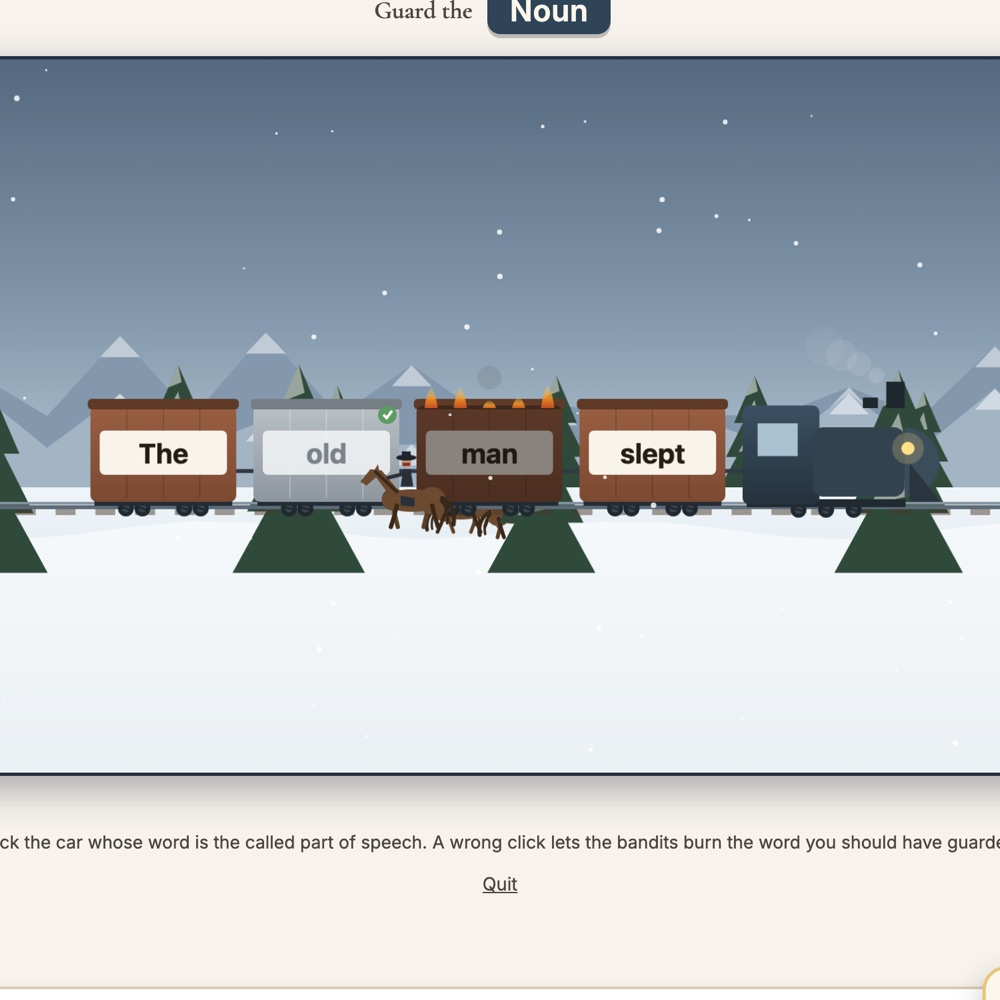
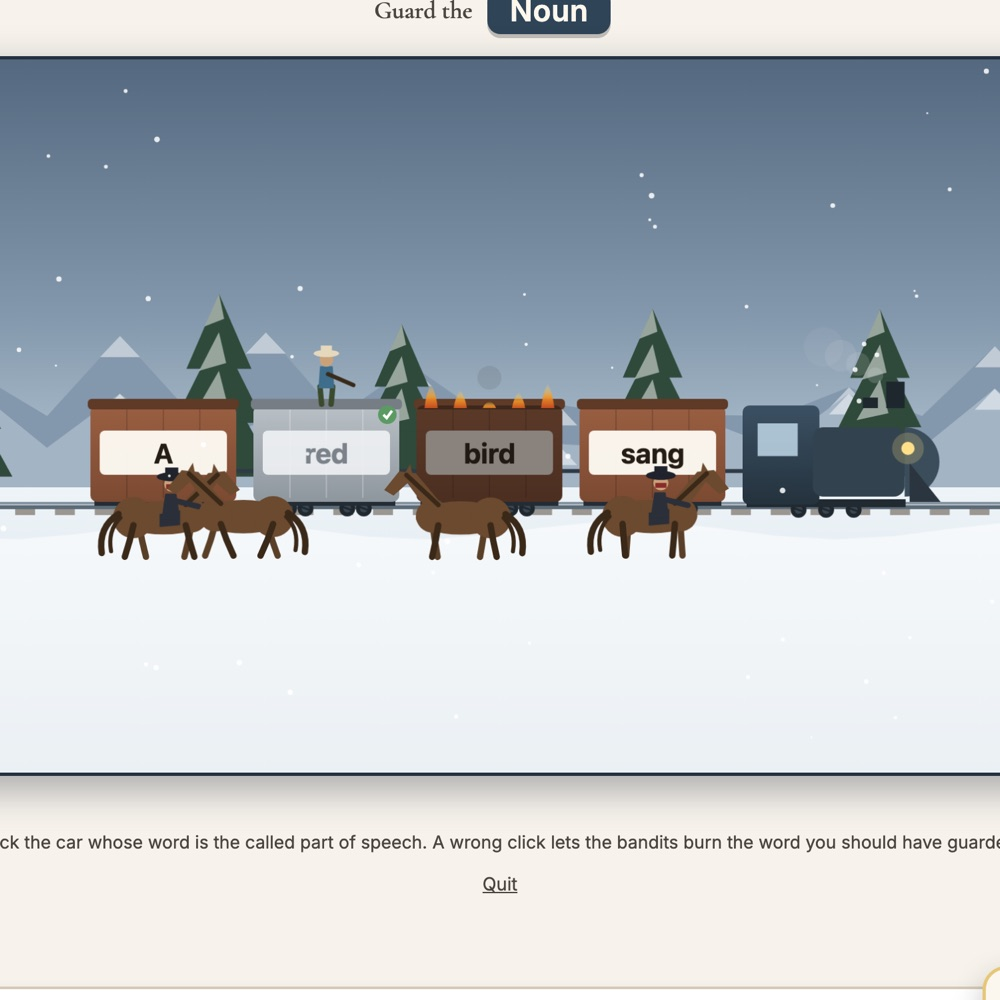
Grammar Express: 1-to-1 bandits, good-guy defenders, foreground riders, bigger backdrop trees
- One bandit per car now (matches the word count), each bound to its car.
- Correct answer: a good guy climbs onto that car, shoots its bandit down (rider
  falls off, the riderless horse bolts away), and stands watch on the car.
- Wrong answer: the car's OWN on-screen bandit torches it from horseback (no more
  off-screen ride-in/out, no dismount).
- Bandits moved into the foreground (drawn in front of the train) and lowered so
  they clear the word plates; horses + riders scaled up ~1.5x.
- Removed the foreground tree band that overlapped the train; enlarged the single
  background treeline so it reads better behind the train.
Logic unchanged (13/13 assertions pass); tile regenerated.

diff --git a/games/grammar-express/index.html b/games/grammar-express/index.html
@@ -310,7 +310,7 @@ let order = [], orderIdx = 0, curPOS = null, remaining = 0;
 let lives = START_LIVES, score = 0, streak = 0, bestStreak = 0;
 let carsSaved = 0, clicksRight = 0, clicksTotal = 0;
 let doneClock = 0, worldSpeed = 7;   // px/sec - a slow, peaceful crawl
-let scroll = 0, snow = [], bandits = [], raids = [];
+let scroll = 0, snow = [], bandits = [];   // one bandit per car (1-to-1)
 let recent = { idx:-1, kind:null, t:0 };
 let layoutMeta = null;
 
@@ -351,7 +351,6 @@ function layoutTrain(){
 function startGame(){
   trainCount = 0; levelIdx = 0; lastSpec = '';
   lives = START_LIVES; score = 0; streak = 0; bestStreak = 0; carsSaved = 0; clicksRight = 0; clicksTotal = 0;
-  raids = [];
   rail.set(0);
   startOverlay.classList.add('hidden');
   overOverlay.classList.add('hidden');
@@ -367,12 +366,10 @@ function nextTrain(){
   let spec = choice(LEVELS[levelIdx]);
   if (LEVELS[levelIdx].length > 1){ let guard=0; while (spec===lastSpec && guard++<8) spec = choice(LEVELS[levelIdx]); }
   lastSpec = spec;
-  train = S(spec).map(c => ({ w:c.w, pos:c.pos, secured:false, burned:false, fire:0 }));
+  train = S(spec).map(c => ({ w:c.w, pos:c.pos, secured:false, burned:false, fire:0, hero:null }));
   layoutTrain();
-  // ambient bandits keeping pace in the mid-ground
-  bandits = [];
-  for (let i=0;i<3;i++) bandits.push({ x:rand(W*0.1,W*0.9), lane:i, phase:rand(0,6.28), sp:rand(0.9,1.15) });
-  raids = [];
+  // one bandit per car, each menacing the car it belongs to
+  bandits = train.map((c,i) => ({ carIdx:i, phase:rand(0,6.28), spd:rand(0.95,1.15), state:'ride', t:0, fleeX:0 }));
   const present = [];
   train.forEach(c => { if (present.indexOf(c.pos)<0) present.push(c.pos); });
   order = shuffle(present); orderIdx = 0;
@@ -409,6 +406,8 @@ function guard(idx){
     streak++; if (streak>bestStreak) bestStreak = streak;
     score += Math.round(20 * Math.min(3, 1 + streak*0.15));
     recent = { idx, kind:'good', t:0 };
+    c.hero = { t:0 };                                   // a good guy climbs aboard and...
+    if (bandits[idx]){ bandits[idx].state = 'defeated'; bandits[idx].t = 0; }   // ...shoots this car's bandit down
     feedbackEl.textContent = '';
     if (window.HSGSound) HSGSound.correct();
     if (window.HSGfx && HSGfx.milestone(streak) && window.HSGSound) HSGSound.streak(streak);
@@ -427,7 +426,8 @@ function wrongClick(){
   streak = 0;
   const victim = targets[0], vIdx = train.indexOf(victim);
   victim.burned = true;                     // logic: it's lost now...
-  spawnRaid(vIdx);                          // ...visual fire ramps when the bandit reaches it
+  // this car's own bandit torches it from horseback (no ride-in from off-screen)
+  if (bandits[vIdx]){ bandits[vIdx].state = 'torch'; bandits[vIdx].t = 0; } else victim.fire = 1;
   if (!(window.HSGGod && HSGGod.on)) lives--;
   recent = { idx:vIdx, kind:'burn', t:0 };
   if (window.HSGSound) HSGSound.wrong();
@@ -438,11 +438,6 @@ function wrongClick(){
   if (lives <= 0){ setTimeout(gameOver, 650); return; }
   remaining = train.filter(c => c.pos===curPOS && !c.secured && !c.burned).length;
   if (remaining <= 0) setTimeout(advancePrompt, 500); else updatePrompt();
-}
-
-function spawnRaid(carIdx){
-  const b = bandits.length ? bandits[randi(0,bandits.length-1)] : { x:-60 };
-  raids.push({ carIdx, t:0, fromX: (b.x!==undefined ? b.x : -60) });
 }
 
 // ---------- HUD ----------
@@ -548,8 +543,8 @@ function horseLeg(hx, hy, swing, len, col){
   ctx.strokeStyle = col; ctx.lineWidth = 3.4; ctx.lineCap = 'round';
   ctx.beginPath(); ctx.moveTo(hx, hy); ctx.lineTo(hx+swing*0.45, hy+len*0.5); ctx.lineTo(hx+swing, hy+len); ctx.stroke();
 }
-function drawHorseRider(x, groundY, s, t, rise, torch, dir){
-  dir = dir || 1;
+function drawHorseRider(x, groundY, s, t, torch, dir, fall){
+  dir = dir || 1; fall = fall || 0;
   ctx.save(); ctx.translate(x, groundY-2); ctx.scale(s*dir, s);
   const t2 = t*14;                                   // legs twice as fast
   const fS = Math.sin(t2)*7, bS = Math.sin(t2+Math.PI)*7;
@@ -569,50 +564,77 @@ function drawHorseRider(x, groundY, s, t, rise, torch, dir){
   ctx.strokeStyle = dark; ctx.lineWidth = 2.5; ctx.beginPath(); ctx.moveTo(12,-27); ctx.lineTo(29,-43); ctx.stroke();   // mane
   ctx.lineWidth = 3.4; ctx.beginPath(); ctx.moveTo(-24,-22); ctx.quadraticCurveTo(-35,-15,-33,-1); ctx.stroke();       // tail
   ctx.lineWidth = 2.2; ctx.beginPath(); ctx.moveTo(-23,-20); ctx.quadraticCurveTo(-30,-13,-28,-2); ctx.stroke();
-  // rider astride
-  const ry = -30 - rise*16;
-  ctx.fillStyle = '#2b2f3a';
-  ctx.beginPath(); ctx.moveTo(-2,-22); ctx.lineTo(9,-24); ctx.lineTo(9,-16); ctx.lineTo(-2,-15); ctx.closePath(); ctx.fill();   // thigh over saddle
-  ctx.beginPath(); ctx.moveTo(-1,ry+11); ctx.lineTo(9,ry+11); ctx.lineTo(7,ry-3); ctx.lineTo(1,ry-3); ctx.closePath(); ctx.fill(); // torso
-  ctx.fillStyle = '#caa27a'; ctx.beginPath(); ctx.arc(4.5,ry-8,4,0,7); ctx.fill();     // face
-  ctx.fillStyle = '#8a2b2b'; ctx.fillRect(1.5,ry-8,6,2.6);                             // bandana
-  ctx.fillStyle = '#20222c'; ctx.beginPath(); ctx.ellipse(4.5,ry-12,8,2.4,0,0,7); ctx.fill(); ctx.fillRect(1,ry-17,7,5); // hat
-  ctx.strokeStyle = '#2b2f3a'; ctx.lineWidth = 3; ctx.lineCap = 'round';
-  ctx.beginPath(); ctx.moveTo(7,ry+1); ctx.lineTo(19,ry+4); ctx.stroke();              // rein arm to the neck
-  if (torch > 0){
-    ctx.strokeStyle = '#2b2f3a'; ctx.beginPath(); ctx.moveTo(6,ry-1); ctx.lineTo(15,ry-15); ctx.stroke();
-    ctx.strokeStyle = '#6b4a2a'; ctx.lineWidth = 2.5; ctx.beginPath(); ctx.moveTo(15,ry-15); ctx.lineTo(19,ry-21); ctx.stroke();
-    const fl = 5 + 3*Math.sin(t*22);
-    const fg = ctx.createRadialGradient(19,ry-25,0,19,ry-25,fl+4);
-    fg.addColorStop(0,'rgba(255,240,150,0.95)'); fg.addColorStop(0.5,'rgba(240,150,40,0.9)'); fg.addColorStop(1,'rgba(200,60,30,0)');
-    ctx.fillStyle = fg; ctx.beginPath(); ctx.arc(19,ry-25,fl+4,0,7); ctx.fill();
+  // rider astride (drops off when shot down: fall 0 = seated, 1 = gone)
+  if (fall < 1){
+    ctx.save(); ctx.globalAlpha = 1 - fall*0.6; ctx.translate(0, fall*18); ctx.rotate(fall*0.8);
+    const ry = -30;
+    ctx.fillStyle = '#2b2f3a';
+    ctx.beginPath(); ctx.moveTo(-2,-22); ctx.lineTo(9,-24); ctx.lineTo(9,-16); ctx.lineTo(-2,-15); ctx.closePath(); ctx.fill();   // thigh over saddle
+    ctx.beginPath(); ctx.moveTo(-1,ry+11); ctx.lineTo(9,ry+11); ctx.lineTo(7,ry-3); ctx.lineTo(1,ry-3); ctx.closePath(); ctx.fill(); // torso
+    ctx.fillStyle = '#caa27a'; ctx.beginPath(); ctx.arc(4.5,ry-8,4,0,7); ctx.fill();     // face
+    ctx.fillStyle = '#8a2b2b'; ctx.fillRect(1.5,ry-8,6,2.6);                             // bandana
+    ctx.fillStyle = '#20222c'; ctx.beginPath(); ctx.ellipse(4.5,ry-12,8,2.4,0,0,7); ctx.fill(); ctx.fillRect(1,ry-17,7,5); // hat
+    ctx.strokeStyle = '#2b2f3a'; ctx.lineWidth = 3; ctx.lineCap = 'round';
+    ctx.beginPath(); ctx.moveTo(7,ry+1); ctx.lineTo(19,ry+4); ctx.stroke();              // rein arm to the neck
+    if (torch > 0){
+      ctx.strokeStyle = '#2b2f3a'; ctx.beginPath(); ctx.moveTo(6,ry-1); ctx.lineTo(15,ry-15); ctx.stroke();
+      ctx.strokeStyle = '#6b4a2a'; ctx.lineWidth = 2.5; ctx.beginPath(); ctx.moveTo(15,ry-15); ctx.lineTo(19,ry-21); ctx.stroke();
+      const fl = 5 + 3*Math.sin(t*22);
+      const fg = ctx.createRadialGradient(19,ry-25,0,19,ry-25,fl+4);
+      fg.addColorStop(0,'rgba(255,240,150,0.95)'); fg.addColorStop(0.5,'rgba(240,150,40,0.9)'); fg.addColorStop(1,'rgba(200,60,30,0)');
+      ctx.fillStyle = fg; ctx.beginPath(); ctx.arc(19,ry-25,fl+4,0,7); ctx.fill();
+    }
+    ctx.restore();
   }
   // near legs (darker, in front of body) - opposite phase for a gallop
   horseLeg(12, HIP, bS, LEN, dark);
   horseLeg(-16, HIP, fS, LEN, dark);
   ctx.restore();
 }
-function drawAmbientBandits(t){
-  const gy = layoutMeta ? layoutMeta.baseY : H*0.62;
+// bandits ride in the FOREGROUND (in front of the train), one per car, low enough
+// to clear the word plates. Each is bound to its car and reacts to how it's resolved.
+function banditScale(){ return (layoutMeta ? layoutMeta.carH/70 : 1) * 1.35; }   // ~1.5x the old size
+function drawBandits(t){
+  if (!layoutMeta) return;
+  const s = banditScale();
+  const gy = layoutMeta.baseY + layoutMeta.carH*0.5 + 6;   // low, in front of the wheels
   for (const b of bandits){
-    b.x += Math.sin(t*0.6 + b.phase)*0.15;          // slight drift, pacing the train
-    drawHorseRider(b.x, gy + 20 + b.lane*4, 0.72 + b.lane*0.06, t*b.sp + b.phase, 0, 0, 1);
-  }
-}
-function drawRaids(t){
-  const gy = layoutMeta ? layoutMeta.baseY : H*0.62;
-  for (const r of raids){
-    const car = train[r.carIdx]; if (!car) continue;
+    if (b.state === 'gone') continue;
+    const car = train[b.carIdx]; if (!car) continue;
     const cx = car.x + car.cw/2;
-    // phases: ride-in (0-0.9) | board (0.9-1.25) | torch (1.25-1.9) | ride-out (1.9-2.8)
-    let x, rise=0, torch=0, dir=1, sc=0.95;
-    if (r.t < 0.9){ x = lerp(r.fromX, cx, r.t/0.9); dir = (cx>=r.fromX?1:-1); }
-    else if (r.t < 1.25){ x = cx; rise = (r.t-0.9)/0.35; }
-    else if (r.t < 1.9){ x = cx; rise = 1; torch = 1; if (car.fire < 1) car.fire = Math.min(1, car.fire + 0.06); }
-    else { x = lerp(cx, cx - W*0.7, (r.t-1.9)/0.9); rise = Math.max(0, 1-(r.t-1.9)/0.35); car.fire = 1; dir = -1; }
-    drawHorseRider(x, gy + 20, sc, t*1.4 + r.carIdx, rise, torch, dir);
+    const bob = Math.sin(t*3 + b.phase)*1.4;
+    let x = cx, dir = 1, torch = 0, fall = 0;
+    if (b.state === 'torch')    { torch = (b.t < 0.6) ? 1 : 0; }
+    else if (b.state === 'defeated'){ fall = clamp((b.t - 0.28)/0.34, 0, 1); }   // rider shot, drops off
+    else if (b.state === 'flee'){ x = b.fleeX; dir = -1; fall = 1; }             // riderless horse bolts
+    drawHorseRider(x, gy + bob, s, t*b.spd + b.phase, torch, dir, fall);
   }
 }
+
+// the good guy who guards a correctly-answered car (climbs on, shoots, stands watch)
+function drawHero(c, t){
+  const h = c.hero; if (!h) return;
+  const S = (c.h/70) * 1.15, cx = c.x + c.cw*0.5, footY = c.y - 1;
+  const pop = clamp(h.t/0.24, 0, 1);
+  ctx.save(); ctx.translate(cx, footY); ctx.scale(S, S); ctx.translate(0, (1-pop)*10);
+  ctx.strokeStyle = '#3a4a2c'; ctx.lineWidth = 3.4; ctx.lineCap = 'round';
+  ctx.beginPath(); ctx.moveTo(-3,0); ctx.lineTo(-4,-11); ctx.moveTo(3,0); ctx.lineTo(4,-11); ctx.stroke();   // legs
+  ctx.fillStyle = '#3f6d8c';                                                                                  // coat (blue = good guy)
+  ctx.beginPath(); ctx.moveTo(-5,-10); ctx.lineTo(5,-10); ctx.lineTo(4,-24); ctx.lineTo(-4,-24); ctx.closePath(); ctx.fill();
+  ctx.fillStyle = '#caa27a'; ctx.beginPath(); ctx.arc(0,-28,4.3,0,7); ctx.fill();                            // head
+  ctx.fillStyle = '#e6d8bc'; ctx.beginPath(); ctx.ellipse(0,-32,8,2.3,0,0,7); ctx.fill(); ctx.fillRect(-3.5,-37,7,5); // light hat
+  // rifle aimed down-forward at this car's bandit
+  ctx.strokeStyle = '#3a2a1a'; ctx.lineWidth = 2.6;
+  ctx.beginPath(); ctx.moveTo(1,-19); ctx.lineTo(17,-12); ctx.stroke();
+  if (h.t > 0.18 && h.t < 0.44){                                                                             // muzzle flash
+    const fl = 6 + 2*Math.sin(t*45);
+    const fg = ctx.createRadialGradient(18,-11,0,18,-11,fl);
+    fg.addColorStop(0,'rgba(255,246,190,0.95)'); fg.addColorStop(1,'rgba(255,180,40,0)');
+    ctx.fillStyle = fg; ctx.beginPath(); ctx.arc(18,-11,fl,0,7); ctx.fill();
+  }
+  ctx.restore();
+}
+function drawHeroes(t){ for (const c of train) if (c.secured && c.hero) drawHero(c, t); }
 
 // ---- train ----
 function drawTrain(t){
@@ -737,17 +759,24 @@ function loop(ts){
   scroll += spd*dt;
 
   if (recent.t < 1) recent.t += dt;
-  for (let i=raids.length-1;i>=0;i--){ raids[i].t += dt; if (raids[i].t > 2.9) raids.splice(i,1); }
+  // advance the bandits and the good guys
+  for (const b of bandits){
+    b.t += dt;
+    const car = train[b.carIdx];
+    if (b.state === 'torch'){ if (car) car.fire = Math.min(1, car.fire + dt/0.5); if (b.t > 0.65){ b.state='flee'; b.fleeX = car ? car.x + car.cw/2 : -60; } }
+    else if (b.state === 'defeated'){ if (b.t > 0.72){ b.state='flee'; b.fleeX = car ? car.x + car.cw/2 : -60; } }
+    else if (b.state === 'flee'){ b.fleeX -= 130*dt; if (b.fleeX < -120) b.state='gone'; }
+  }
+  for (const c of train){ if (c.hero) c.hero.t += dt; }
 
   ctx.clearRect(0,0,W,H);
   drawSky(); drawMountains();
-  drawTreeBand(H*0.605, 150, 84, 0.18, 3.1);
+  drawTreeBand(H*0.585, 172, 122, 0.13, 3.1);   // bigger background treeline, behind the train
   drawGround();
-  drawAmbientBandits(t);
-  drawTreeBand(H*0.72, 230, 150, 0.42, 7.7);
   drawRails();
   drawTrain(t);
-  drawRaids(t);
+  drawBandits(t);      // foreground, in front of the train
+  drawHeroes(t);       // good guys standing watch on guarded cars
   drawSnow(dt);
 
   requestAnimationFrame(loop);
@@ -787,9 +816,10 @@ HSGGod.watch(() => {
 // homepage-tile capture hook: start, guard a couple, and stage a bandit raid
 if (location.search.indexOf('shot') >= 0){
   setTimeout(()=>{ startGame(); }, 60);
-  setTimeout(()=>{ if(train[1]) train[1].secured=true; if(train[4]) train[4].secured=true;
-    // stage a torching for the action shot
-    if (train.length>2){ const v=Math.min(2,train.length-1); train[v].burned=true; train[v].fire=1; spawnRaid(v); raids[raids.length-1].t=1.5; }
+  setTimeout(()=>{
+    if (train[1]){ train[1].secured=true; train[1].hero={t:0.6}; if(bandits[1]){ bandits[1].state='defeated'; bandits[1].t=0.9; } }   // guarded + good guy
+    const v = Math.min(2, train.length-1);
+    if (train[v]){ train[v].burned=true; train[v].fire=1; if(bandits[v]){ bandits[v].state='torch'; bandits[v].t=0.3; } }               // being torched
   }, 120);
 }
 